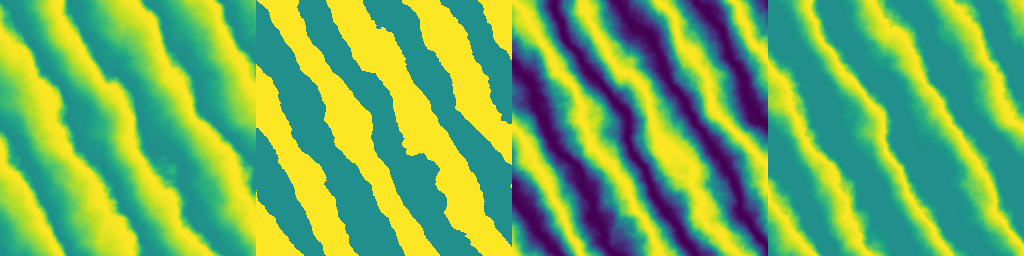
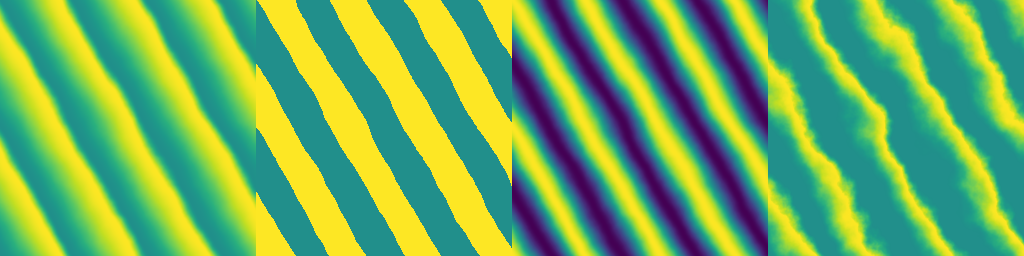
Add phase shift optional array input for wave primitive (#73), Fix negative phase shift for wave_dune primitive (#74)

diff --git a/src/primitives/primitives.cpp b/src/primitives/primitives.cpp
@@ -273,6 +273,7 @@ Array wave_dune(Vec2<int>   shape,
                 float       xbottom,
                 float       phase_shift,
                 Array      *p_noise,
+                Array      *p_shift,
                 Vec2<float> shift,
                 Vec2<float> scale)
 {
@@ -287,7 +288,7 @@ Array wave_dune(Vec2<int>   shape,
 
   auto lambda = [&kw, &phase_shift, &xtop, &xbottom](float x)
   {
-    float xp = std::fmod(kw * x + phase_shift, 1.f);
+    float xp = std::fmod(kw * x + phase_shift + 10.f, 1.f);
     float yp = 0.f;
 
     if (xp < xtop)
@@ -304,13 +305,28 @@ Array wave_dune(Vec2<int>   shape,
   };
 
   if (p_noise != nullptr)
-    for (int i = 0; i < array.shape.x; i++)
-      for (int j = 0; j < array.shape.y; j++)
-        array(i, j) = lambda(ca * x[i] + sa * y[j] + (*p_noise)(i, j));
+  {
+    if (p_shift != nullptr)
+      for (int i = 0; i < array.shape.x; i++)
+        for (int j = 0; j < array.shape.y; j++)
+          array(i, j) = lambda(ca * x[i] + sa * y[j] + (*p_noise)(i, j) +
+                               (*p_shift)(i, j));
+    else
+      for (int i = 0; i < array.shape.x; i++)
+        for (int j = 0; j < array.shape.y; j++)
+          array(i, j) = lambda(ca * x[i] + sa * y[j] + (*p_noise)(i, j));
+  }
   else
-    for (int i = 0; i < array.shape.x; i++)
-      for (int j = 0; j < array.shape.y; j++)
-        array(i, j) = lambda(ca * x[i] + sa * y[j]);
+  {
+    if (p_shift != nullptr)
+      for (int i = 0; i < array.shape.x; i++)
+        for (int j = 0; j < array.shape.y; j++)
+          array(i, j) = lambda(ca * x[i] + sa * y[j] + (*p_shift)(i, j));
+    else
+      for (int i = 0; i < array.shape.x; i++)
+        for (int j = 0; j < array.shape.y; j++)
+          array(i, j) = lambda(ca * x[i] + sa * y[j]);
+  }
 
   return array;
 }
@@ -337,7 +353,7 @@ Array wave_sine(Vec2<int>   shape,
   if (p_noise != nullptr)
     for (int i = 0; i < array.shape.x; i++)
       for (int j = 0; j < array.shape.y; j++)
-        array(i, j) = lambda(ca * x[i] + sa * y[j] + (*p_noise)(i, j));
+        array(i, j) = lambda(ca * x[i] + sa * y[j] + (*p_noise)(i, j) / kw);
   else
     for (int i = 0; i < array.shape.x; i++)
       for (int j = 0; j < array.shape.y; j++)
@@ -368,7 +384,7 @@ Array wave_square(Vec2<int>   shape,
   if (p_noise != nullptr)
     for (int i = 0; i < array.shape.x; i++)
       for (int j = 0; j < array.shape.y; j++)
-        array(i, j) = lambda(ca * x[i] + sa * y[j] + (*p_noise)(i, j) +
+        array(i, j) = lambda(ca * x[i] + sa * y[j] + (*p_noise)(i, j) / kw +
                              phase_shift);
   else
     for (int i = 0; i < array.shape.x; i++)
@@ -408,7 +424,7 @@ Array wave_triangular(Vec2<int>   shape,
   if (p_noise != nullptr)
     for (int i = 0; i < array.shape.x; i++)
       for (int j = 0; j < array.shape.y; j++)
-        array(i, j) = lambda(ca * x[i] + sa * y[j] + (*p_noise)(i, j) +
+        array(i, j) = lambda(ca * x[i] + sa * y[j] + (*p_noise)(i, j) / kw +
                              phase_shift);
   else
     for (int i = 0; i < array.shape.x; i++)

diff --git a/include/highmap/primitives.hpp b/include/highmap/primitives.hpp
@@ -860,6 +860,7 @@ Array value_noise_thinplate(Vec2<int>   shape,
  * @param phase_shift Phase shift (in radians).
  * @param p_noise Reference to the input noise array used for domain warping
  * (NOT in pixels, with respect to a unit domain).
+ * @param p_phase Reference to the input noise array used for the phase shift
  * @param shift Shift {xs, ys} for each directions.
  * @param scale Domain scaling, in [0, 1].
  * @return Array New array.
@@ -871,6 +872,7 @@ Array wave_dune(Vec2<int>   shape,
                 float       xbottom,
                 float       phase_shift = 0.f,
                 Array      *p_noise = nullptr,
+                Array      *p_shift = nullptr,
                 Vec2<float> shift = {0.f, 0.f},
                 Vec2<float> scale = {1.f, 1.f});
 

diff --git a/examples/ex_wave/ex_wave.cpp b/examples/ex_wave/ex_wave.cpp
@@ -12,11 +12,12 @@ int main(void)
   uint  seed = 1;
 
   auto noise = 0.1f * hmap::fbm_perlin(shape, {kw, kw}, seed, 8, 0.f);
+  auto phase = 0.2f * hmap::perlin(shape, {kw, kw}, seed);
 
   auto zt = hmap::wave_triangular(shape, kw, angle, 0.8f);
   auto zq = hmap::wave_square(shape, kw, angle);
   auto zs = hmap::wave_sine(shape, kw, angle);
-  auto zd = hmap::wave_dune(shape, kw, angle, 0.5f, 0.7f);
+  auto zd = hmap::wave_dune(shape, kw, angle, 0.5f, 0.7f, 0.f, nullptr, &phase);
 
   auto ztn = hmap::wave_triangular(shape, kw, angle, 0.8f, 0.f, &noise);
   auto zqn = hmap::wave_square(shape, kw, angle, 0.f, &noise);
